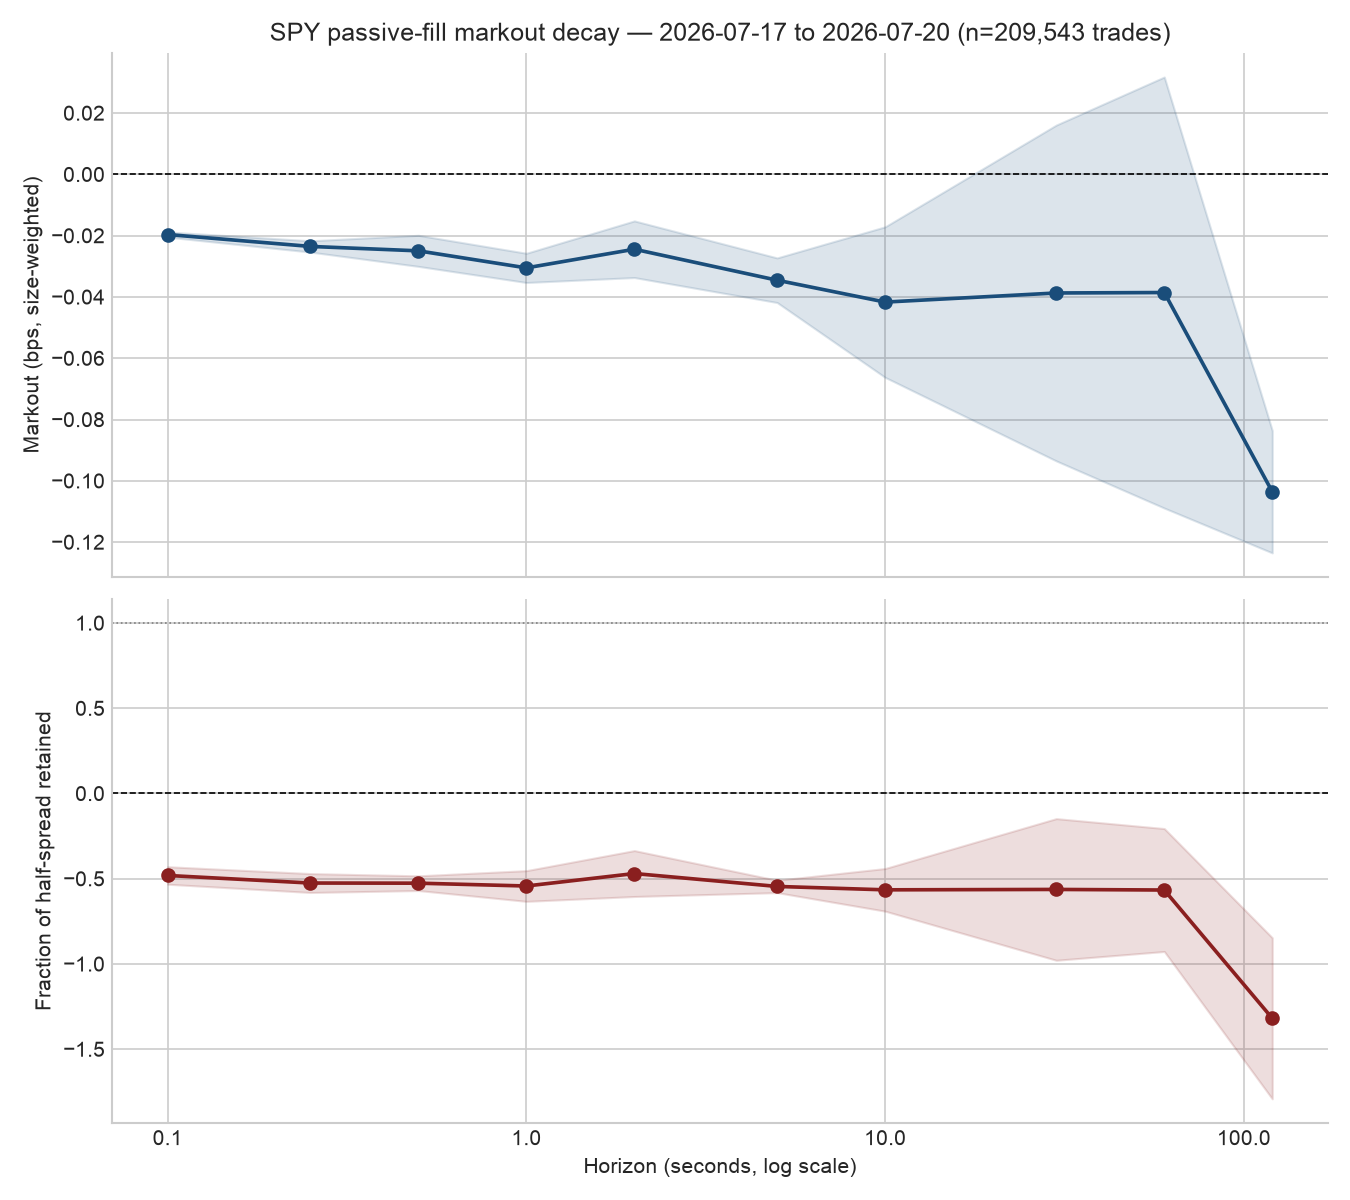
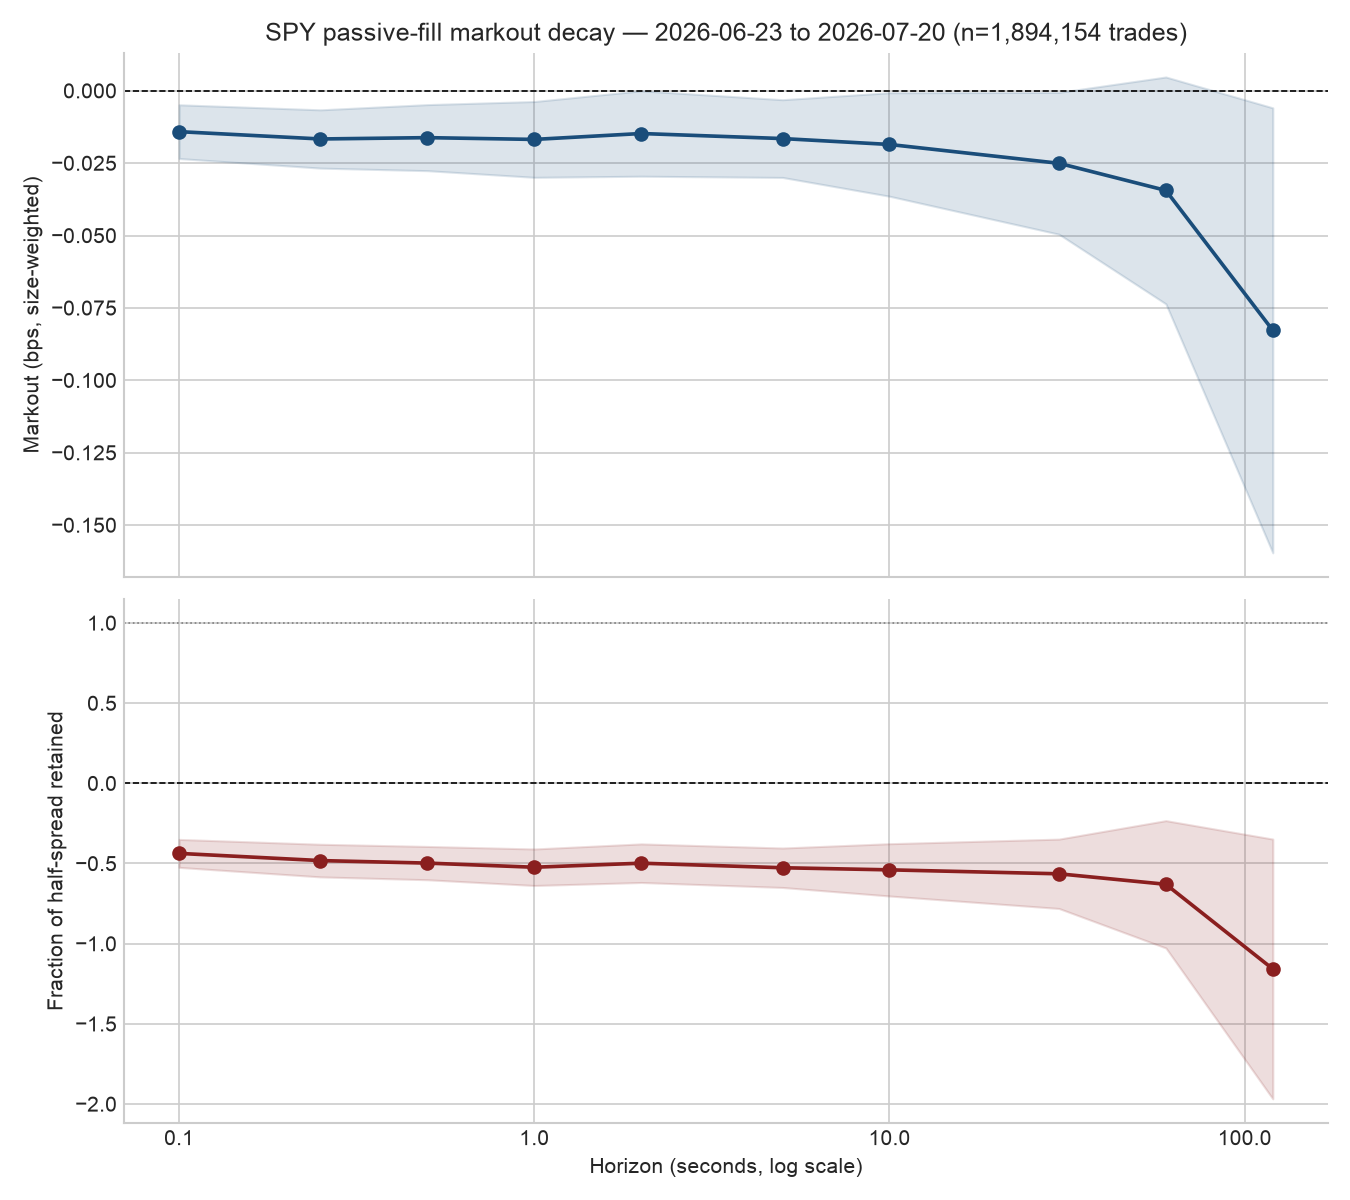
Rerun markout pipeline on the full 20-day XNAS.ITCH window
Pulled the remaining 18 days (2026-06-23 to 2026-07-16) so the sample is
now 19 trading days and 1,894,154 trades. All six validation checks pass
on the full sample; standard errors now have 18 degrees of freedom.

- clean.py: return None for a zero-row raw file and skip it in main().
  2026-07-03 (Independence Day observed) comes back from Databento empty,
  and an empty processed day would zero out the trade-count-stability
  check. Regression test added.
- Refresh SPY chart, per-horizon table, and size-quintile CSV.
- Update both READMEs with the 19-day results, t-stats, and aggregate
  cleaning counts.

diff --git a/markout/src/clean.py b/markout/src/clean.py
@@ -131,8 +131,16 @@ def split_by_flags(trades: pl.DataFrame) -> tuple[pl.DataFrame, pl.DataFrame]:
     return normal, excluded
 
 
-def clean_day(raw_path: Path, config: dict) -> tuple[pl.DataFrame, pl.DataFrame, pl.DataFrame, dict]:
+def clean_day(
+    raw_path: Path, config: dict
+) -> tuple[pl.DataFrame, pl.DataFrame, pl.DataFrame, dict] | None:
+    """Returns None for a zero-row raw file (a market holiday inside the
+    fetch window comes back from Databento empty) so the caller can skip the
+    day instead of writing empty processed files that would later zero out
+    the trade-count-stability validation check."""
     raw = pl.read_parquet(raw_path)
+    if raw.height == 0:
+        return None
     raw = to_eastern(raw)
     raw = filter_regular_hours(raw, config["session_start"], config["session_end"], config["timezone"])
 
@@ -181,7 +189,11 @@ def main():
 
     for raw_path in sorted(raw_dir.glob(f"{symbol}_*.parquet")):
         day_str = raw_path.stem.split(f"{symbol}_", 1)[1]
-        trades, quotes, excluded_trades, stats = clean_day(raw_path, config)
+        result = clean_day(raw_path, config)
+        if result is None:
+            print(f"{day_str}: raw file has 0 rows (market holiday?), skipping")
+            continue
+        trades, quotes, excluded_trades, stats = result
         trades.write_parquet(processed_dir / f"{symbol}_{day_str}_trades.parquet")
         quotes.write_parquet(processed_dir / f"{symbol}_{day_str}_quotes.parquet")
         excluded_trades.write_parquet(

diff --git a/markout/tests/test_clean.py b/markout/tests/test_clean.py
@@ -174,3 +174,33 @@ def test_clean_day_routes_nonzero_flag_trades_to_excluded_output(tmp_path):
     assert trades["flags"].to_list() == [0, 0]
     assert excluded["flags"].to_list() == [128, 128]
     assert stats["n_excluded_flagged"] == 2
+
+
+def test_clean_day_returns_none_for_empty_raw_file(tmp_path):
+    # A market holiday inside the window comes back from Databento as a
+    # zero-row pull. clean_day must signal "nothing here" rather than
+    # writing empty processed files that later zero out the
+    # trade-count-stability check.
+    raw = pl.DataFrame(
+        {
+            "ts_event": pl.Series([], dtype=pl.Datetime("ns", time_zone="UTC")),
+            "action": pl.Series([], dtype=pl.String),
+            "side": pl.Series([], dtype=pl.String),
+            "price": pl.Series([], dtype=pl.Float64),
+            "bid_px_00": pl.Series([], dtype=pl.Float64),
+            "ask_px_00": pl.Series([], dtype=pl.Float64),
+            "flags": pl.Series([], dtype=pl.UInt8),
+        }
+    )
+    raw_path = tmp_path / "SPY_2026-07-03.parquet"
+    raw.write_parquet(raw_path)
+
+    config = {
+        "session_start": "09:30:00",
+        "session_end": "16:00:00",
+        "timezone": "America/New_York",
+        "auction_buffer_seconds": 5.0,
+        "horizons_seconds": [0, 120],
+        "aggressor_unknown_threshold": 0.05,
+    }
+    assert clean_day(raw_path, config) is None

diff --git a/README.md b/README.md
@@ -32,22 +32,26 @@ quoted half-spread do you still have *h* seconds after the fill?
 
 ![SPY passive-fill markout decay](markout/output/SPY_markout_curve.png)
 
-Size-weighted means, 2 trading days (2026-07-17 and 2026-07-20), 209,543
-trades, Nasdaq (`XNAS.ITCH`) top-of-book:
+Size-weighted means over 19 trading days, 2026-06-23 to 2026-07-20 (July 3
+was a market holiday), 1,894,154 trades, Nasdaq (`XNAS.ITCH`) top-of-book.
+Standard errors are clustered on daily means (18 degrees of freedom).
 
-| Horizon | Markout (bps) | Fraction of half-spread retained |
-|---|---|---|
-| 0 s | +0.124 | +0.96 |
-| 0.1 s | -0.020 | -0.48 |
-| 1 s | -0.031 | -0.54 |
-| 10 s | -0.042 | -0.57 |
-| 60 s | -0.039 | -0.57 |
-| 120 s | -0.104 | -1.32 |
+| Horizon | Markout (bps) | t-stat | Fraction of half-spread retained |
+|---|---|---|---|
+| 0 s | +0.127 | 29.7 | +0.96 |
+| 0.1 s | -0.014 | -3.0 | -0.44 |
+| 1 s | -0.017 | -2.6 | -0.52 |
+| 10 s | -0.019 | -2.1 | -0.54 |
+| 60 s | -0.034 | -1.8 | -0.63 |
+| 120 s | -0.083 | -2.2 | -1.16 |
 
 Reading: at t=0 the passive fill has earned the half-spread (the sign
 convention check, `X(0) = +half spread`, passes on real data). Within 100
 milliseconds the mid has moved through the fill price and the position is
-underwater by roughly half a half-spread, and it never recovers. On this
+underwater by roughly half a half-spread. It never recovers; the mid keeps
+drifting slowly against the fill out to two minutes. The sub-second loss is
+statistically clear across days; beyond about a minute the day-to-day
+variance is large and the point estimates should be read loosely. On this
 feed, naive passive liquidity provision in SPY is adversely selected almost
 immediately. The full table with equal-weighted means and standard errors is
 in [`markout/output/SPY_markout_table.csv`](markout/output/SPY_markout_table.csv);
@@ -56,10 +60,8 @@ the size-quintile cut is in
 
 ### Read the caveats before quoting this
 
-1. **Two trading days.** Standard errors cluster on daily means, so with two
-   days they have one degree of freedom. The shaded bands on the chart are
-   not meaningful yet. The pipeline is built for a 20-day window; the
-   remaining 18 days have not been pulled (see "Data" below).
+1. **One month of data.** Nineteen trading days in June and July 2026,
+   one regime. Nothing here is established as regime-independent.
 2. **Single-venue book.** The mid is Nasdaq's top of book, not the NBBO.
    A fill at Nasdaq's ask often *is* the event that empties that level, so
    the Nasdaq mid ticks against you mechanically. That biases measured
@@ -98,12 +100,20 @@ classified by the quote rule (above mid = buy-initiated, below = sell). That
 share is reported per day by `clean.py` and is under the 5% threshold at
 which the pipeline stops and refuses to proceed.
 
-Per-day cleaning summary for the two days in the sample:
+Cleaning summary across the 19 trading days (per-day numbers are printed
+by `clean.py`):
 
-| Day | Raw trades (RTH) | Auction drop | Horizon drop | Flagged (excluded) | Unknown-side fallback | Final trades |
-|---|---|---|---|---|---|---|
-| 2026-07-17 | 118,272 | 1,207 | 3,706 | 10,771 | 3.5% | 102,588 |
-| 2026-07-20 | 117,662 | 930 | 3,052 | 6,725 | 2.1% | 106,955 |
+| Step | Trades |
+|---|---|
+| Regular-hours trades in raw pull | 2,147,844 |
+| Dropped: within 5 s of open or close | 19,324 |
+| Dropped: less than 120 s before close (no valid 120 s horizon) | 72,781 |
+| Excluded to audit file: `flags == 128` | 161,585 |
+| **Final sample** | **1,894,154** |
+
+The unknown-side fallback share ranged from 2.1% to 3.5% per day (2.8%
+trade-weighted). The one holiday in the window, 2026-07-03, came back from
+Databento as an empty pull and is skipped by `clean.py`.
 
 ## Repo layout
 

diff --git a/markout/README.md b/markout/README.md
@@ -77,8 +77,10 @@ uv run python -m src.plot --symbol SYNTH
 
 ## What the real data showed
 
-Two days of `XNAS.ITCH` are on disk (2026-07-17, 2026-07-20). The
-validation report passes all five blocking checks and the advisory one.
+Nineteen trading days of `XNAS.ITCH` are on disk (2026-06-23 to
+2026-07-20; 2026-07-03 was a holiday and comes back as a zero-row file,
+which `clean.py` skips). The validation report passes all five blocking
+checks and the advisory one on the full sample.
 The `side` field mapping (`A` = sell aggressor, `B` = buy aggressor) is
 confirmed by the `X(0)` check: a flipped mapping would flip its sign.
 
@@ -90,9 +92,10 @@ Aggressor-side coverage:
 - `XNAS.ITCH` reports 8–13% unknown side at the raw level. Every trade with
   `flags == 128` is unknown-side, and those look like non-displayed
   liquidity; they are excluded to `*_trades_excluded.parquet`
-  (10,771 and 6,725 trades on the two days). After that and the 5 s auction
-  buffer, 3.5% and 2.1% of trades remain unknown-side and are classified by
-  the quote rule. Both are under the 5% threshold at which `clean.py` stops.
+  (161,585 trades, 7.5% of regular-hours trades, across the 19 days). After
+  that and the 5 s auction buffer, 2.1% to 3.5% of trades per day remain
+  unknown-side and are classified by the quote rule, under the 5% threshold
+  at which `clean.py` stops.
 
 ## Assumptions and limitations
 
@@ -106,9 +109,9 @@ Aggressor-side coverage:
    adverse selection is biased upward relative to a consolidated benchmark.
    The mean quoted spread on this feed ($0.019) is about twice the NBBO's
    usual one tick for the same reason.
-5. Two trading days so far. Standard errors cluster on daily means and have
-   one degree of freedom; treat the bands as placeholders until the 20-day
-   window is pulled.
+5. One month of data (19 trading days). Standard errors cluster on daily
+   means, 18 degrees of freedom. Sub-second markouts are significant at
+   |t| of roughly 3; beyond a minute the bands are wide.
 6. US market holidays are not excluded from the trading-day calculation. A
    holiday in the window shows up as an empty raw file and is caught by the
    trade-count-stability check rather than silently miscounted.
@@ -121,9 +124,9 @@ Aggressor-side coverage:
 ## Status
 
 - [x] Pipeline built and validated end-to-end against synthetic data.
-- [x] Real Databento pull on `XNAS.ITCH`, two trading days, all validation
-      checks pass, chart and tables produced.
-- [ ] Remaining 18 days of the 20-day window (`--as-of 2026-07-21`).
+- [x] Real Databento pull on `XNAS.ITCH`, full 20-day window (19 trading
+      days plus one holiday), all validation checks pass, chart and tables
+      produced.
 - [ ] Phase 1 feature construction: OFI, arrival intensity, momentum, depth
       imbalance, run length, VPIN, each joined onto the per-trade markout
       table by `ts_event`.
